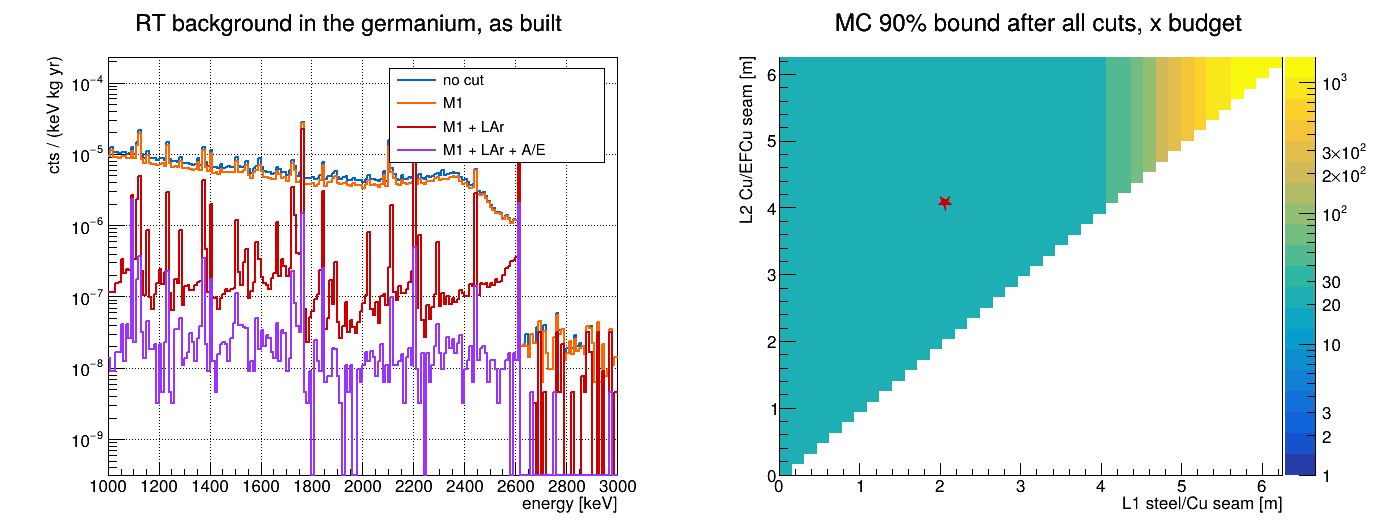
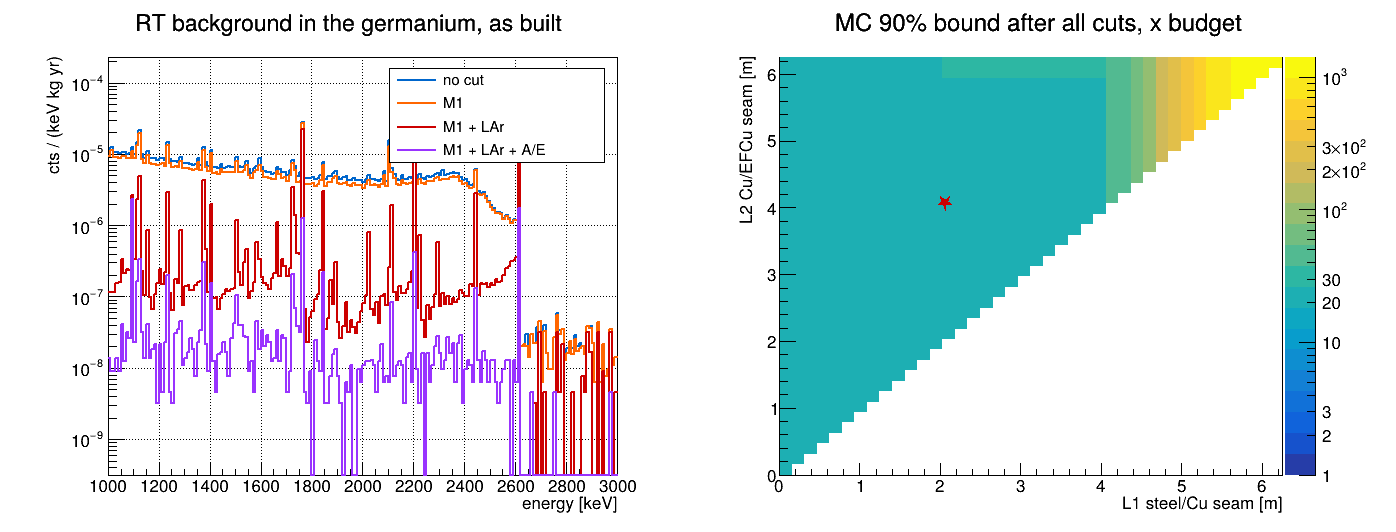
ana

diff --git a/ana/background.C b/ana/background.C
@@ -428,10 +428,13 @@ static std::vector<std::string> expand(const std::string &pat) // "output/tl208*
 
 // the A/E cut as LEGEND sets it: the classifier threshold that keeps cfg::depKeep of the DEP of Tl208, in M1 hits of every
 // Tl208 run (tube and holders), the continuum under the peak subtracted with the sidebands. one value for all detectors: they
-// share one template and one set of parameters
+// share one template and one set of parameters. then the cut on the other lines a 228Th calibration measures it on, and on
+// the window's continuum, against the HADES characterization of the L1000 template detector V00000A
 static void tuneAoE(const std::vector<std::string> &files)
 {
-  std::vector<float> peak, side; // A/E classifier of the M1 hits in the peak and in the sidebands
+  struct Line { const char *name; double e; std::vector<float> peak, side; double measured; }; // A/E classifier of M1 hits in the peak, the sidebands
+  Line line[3] = {{"DEP", cfg::depE, {}, {}, 0.90}, {"SEP", 2103.5, {}, {}, 0.04}, {"FEP", 2614.5, {}, {}, 0.06}};
+  std::vector<float> win; // ...and in the window
   for (auto &file : files)
   {
     auto f = TFile::Open(file.c_str());
@@ -440,34 +443,38 @@ static void tuneAoE(const std::vector<std::string> &files)
     std::unordered_map<Long64_t, short> nFired;
     scanTree(t, {"evtid", "energy"}, [&](const double *v) { if (v[1] > cfg::m1_keV) nFired[(Long64_t)v[0]]++; });
     scanTree(t, {"evtid", "energy", "aoe_class"}, [&](const double *v) {
-      double d = fabs(v[1] - cfg::depE);
-      if (v[1] <= cfg::m1_keV || nFired[(Long64_t)v[0]] != 1 || d > cfg::sideHi) return;
-      if (d < cfg::depHalf) peak.push_back(std::isnan(v[2]) ? -1e30 : v[2]); // an undefined A/E fails
-      else if (d > cfg::sideLo) side.push_back(std::isnan(v[2]) ? -1e30 : v[2]);
+      if (v[1] <= cfg::m1_keV || nFired[(Long64_t)v[0]] != 1) return;
+      float a = std::isnan(v[2]) ? -1e30 : v[2]; // an undefined A/E fails
+      if (cfg::inWindow(v[1])) win.push_back(a);
+      for (auto &l : line)
+      {
+        double d = fabs(v[1] - l.e);
+        if (d < cfg::depHalf) l.peak.push_back(a);
+        else if (d > cfg::sideLo && d < cfg::sideHi) l.side.push_back(a);
+      }
     });
     delete f;
   }
   const double k = 2 * cfg::depHalf / (2 * (cfg::sideHi - cfg::sideLo)); // sideband counts per peak width
-  const double net = peak.size() - k * side.size();
-  std::sort(peak.begin(), peak.end());
-  std::sort(side.begin(), side.end());
-  auto kept = [&](double thr) { // net DEP fraction above thr
-    double p = peak.end() - std::upper_bound(peak.begin(), peak.end(), (float)thr), q = side.end() - std::upper_bound(side.begin(), side.end(), (float)thr);
-    return (p - k * q) / net;
-  };
-  if (net < 30) { printf("[5] A/E cut: only %.0f DEP events net, kept at the production's %.2f
-
-", net, cfg::psd_low); return; }
+  auto above = [](std::vector<float> &x, double thr) { return (double)(x.end() - std::upper_bound(x.begin(), x.end(), (float)thr)); };
+  for (auto &l : line) { std::sort(l.peak.begin(), l.peak.end()); std::sort(l.side.begin(), l.side.end()); }
+  std::sort(win.begin(), win.end());
+  auto net = [&](Line &l) { return l.peak.size() - k * l.side.size(); };
+  auto kept = [&](Line &l, double thr) { return (above(l.peak, thr) - k * above(l.side, thr)) / net(l); }; // net fraction above thr
+  Line &dep = line[0];
+  if (net(dep) < 30) { printf("[5] A/E cut: only %.0f DEP events net, kept at the production's %.2f\n\n", net(dep), cfg::psd_low); return; }
   double thr = 0;
-  while (thr > -50 && kept(thr) < cfg::depKeep) thr -= 0.005;
+  while (thr > -50 && kept(dep, thr) < cfg::depKeep) thr -= 0.005;
   gPsdLow = thr;
-  printf("[5] A/E cut tuned on the Tl208 DEP (%.1f keV) in M1 hits: %zu in +-%.1f keV, %zu in the sidebands %.0f-%.0f keV off it, %.0f net
-",
-         cfg::depE, peak.size(), cfg::depHalf, side.size(), cfg::sideLo, cfg::sideHi, net);
-  printf("    classifier > %.2f keeps %.0f%% of it (+- %.0f%% statistics); the production's > %.2f kept %.0f%%
-
-", gPsdLow, 100 * kept(gPsdLow),
-         100 * sqrt(cfg::depKeep * (1 - cfg::depKeep) / net), cfg::psd_low, 100 * kept(cfg::psd_low));
+  printf("[5] A/E cut tuned on the Tl208 DEP (%.1f keV) in M1 hits: %zu in +-%.1f keV, %zu in the sidebands %.0f-%.0f keV off it, %.0f net\n",
+         cfg::depE, dep.peak.size(), cfg::depHalf, dep.side.size(), cfg::sideLo, cfg::sideHi, net(dep));
+  printf("    classifier > %.2f keeps %.0f%% of it (+- %.0f%% statistics); the production's > %.2f kept %.0f%%\n", gPsdLow, 100 * kept(dep, gPsdLow),
+         100 * sqrt(cfg::depKeep * (1 - cfg::depKeep) / net(dep)), cfg::psd_low, 100 * kept(dep, cfg::psd_low));
+  printf("    kept by it, net of the continuum:");
+  for (auto &l : line) printf("  %s %.1f %.2f (%.0f net)", l.name, l.e, kept(l, gPsdLow), net(l));
+  printf("  window %.2f (%zu)\n    measured on V00000A at HADES:     ", win.empty() ? 0.0 : above(win, gPsdLow) / win.size(), win.size());
+  for (auto &l : line) printf("  %s %.1f %.2f          ", l.name, l.e, l.measured);
+  printf("  window 0.27\n\n");
 }
 
 void background(const char *runs = "output/tl208*_hit.root=Tl208,output/bi214*_hit.root=Bi214",
@@ -663,27 +670,6 @@ void background(const char *runs = "output/tl208*_hit.root=Tl208,output/bi214*_h
     printf("    TUBE + HOLDERS\n");
     for (int c = 0; c < NC; c++) printf("      %-16s %s\n", cutName[c], total(gB[c] + hB[c], gV[c] + hV[c], gN[c] + hN[c], true).c_str());
     printf("    MC [yr]: the years of real decays the run stands for\n");
-    // the A/E cut on the lines a 228Th calibration measures it on, after M1: double escape (single site), single escape and full energy
-    // (multi site), and the window's continuum, against the HADES characterization of the L1000 template detector V00000A
-    const double peak[3] = {1592.5, 2103.5, 2614.5};
-    const char *peakName[4] = {"DEP 1592.5", "SEP 2103.5", "FEP 2614.5", "window"};
-    const double measured[4] = {0.90, 0.04, 0.06, 0.27};
-    for (auto &h : H)
-    {
-      if (h.iso.find("Tl") == std::string::npos) continue;
-      long nIn[4] = {0}, nOk[4] = {0};
-      for (auto &x : h.hits)
-      {
-        if (!x.m1) continue;
-        for (int k = 0; k < 4; k++)
-          if (k < 3 ? fabs(x.e - peak[k]) < 3 : cfg::inWindow(x.e)) { nIn[k]++; nOk[k] += x.psd; }
-      }
-      printf("    A/E cut on M1 hits of the holders' Tl208, kept (hits):");
-      for (int k = 0; k < 4; k++) printf("  %s %.2f (%ld)", peakName[k], nIn[k] ? (double)nOk[k] / nIn[k] : 0.0, nIn[k]);
-      printf("\n    the same measured on V00000A at HADES:                 ");
-      for (int k = 0; k < 4; k++) printf("  %s %.2f     ", peakName[k], measured[k]);
-      printf("\n");
-    }
   }
 
 //-------------------------------------------------------------------------------

diff --git a/README.md b/README.md
@@ -72,11 +72,11 @@ below. Its printout:
 | | |
 | --- | --- |
 | `[3]` | the tube, as read from the GDML: seams, endcap, wall thickness, and the densities of its materials |
-| `[5]` | the A/E cut, tuned: the classifier threshold that keeps 90% of the Tl-208 double-escape peak in M1 hits, the continuum under it subtracted, and what the production's −1.5 kept |
+| `[5]` | the A/E cut, tuned: the classifier threshold that keeps 90% of the Tl-208 double-escape peak in M1 hits, the continuum under it subtracted, and what the production's −1.5 kept; then what it keeps of the DEP, SEP, FEP (net of the continuum) and the window, against the HADES measurement |
 | `[6]` | per chain: where the decays landed (all must be in the wall), hits through the cuts, how hard the LAr veto cuts (with the optical map alone too), and per section the volume, mass, activity, simulated decays and their density |
 | `[7]` | per chain: hits by depth, and the decays each section needs to bound steel over it at 10% of the budget |
 | `[8]` | the BI as built, per chain and section, before and after each cut; a section with no hit gets its 90% limit |
-| `[9]` | the holders as built, per chain, before and after each cut, and the tube and holders together; the A/E cut on Tl-208's lines against the HADES measurement |
+| `[9]` | the holders as built, per chain, before and after each cut, and the tube and holders together |
 | `[10]` | for each `L2`, the deepest `L1` that passes after all cuts, with its masses and SS : Cu : EFCu split |
 
 | output (in `output/`) | made by | holds |
@@ -132,7 +132,7 @@ inverted-coaxial point contact (ICPC), and `V00000A`, whose drift times are used
 | photoelectrons | the summed optical map; amplitudes σ 0.3 PE; pulses within 16 ns merged; at most 100 PE per hit | `/all` of `output/merged_optmap_20260225_063750.lh5`; `tier/opt` |
 | M1 | exactly one detector above 25 keV | `tier/evt` `geds_energy_thr_kev` |
 | LAr veto | rejects a decay whose SiPMs see ≥ 4 PE in all | `tier/evt` `lar_veto_energy_sum_pe_thr` |
-| A/E cut | keeps a hit whose classifier is above the value that keeps 90% of the Tl-208 double-escape peak (DEP): __THR__ here (`[5]`); the production's −1.5 kept __KEPT__ | LEGEND's convention in data; the default from `pars/geds/psdcuts` |
+| A/E cut | keeps a hit whose classifier is above the value that keeps 90% of the Tl-208 double-escape peak (DEP): −1.19 here (`[5]`); the production's −1.5 kept 91% | LEGEND's convention in data; the default from `pars/geds/psdcuts` |
 
 - **The optical map** was made with legend-pygeom-l1000 v0.4.0 [[5]](#references). Its detectors and
   SiPMs sit where this geometry's do, but its tube is 68 mm narrower and 68 mm lower, so the outer
@@ -153,7 +153,7 @@ inverted-coaxial point contact (ICPC), and `V00000A`, whose drift times are used
   2.5 keV of it, the continuum under the peak subtracted with the sidebands 5-10 keV off it. One value
   serves all detectors, which here share one template and one set of parameters.
 - **A/E** uses the single-template model: the production's pulse-shape-library A/E needs a
-  library per detector that does not exist for L1000 yet. `[9]` checks the cut on the lines of
+  library per detector that does not exist for L1000 yet. `[5]` checks the cut on the lines of
   Tl-208 against the HADES measurement of `V00000A` [[5]](#references).
 
 ## Run
@@ -222,38 +222,38 @@ chain. While stages B and C arrive, the printout below comes from exactly these 
 
 | | no cut | M1 | M1 + LAr | M1 + LAr + A/E: all cuts |
 | --- | --- | --- | --- | --- |
-| tube | 4.72 × 10⁻⁶ (0.47) | 4.01 × 10⁻⁶ (0.40) | 1.40 ± 0.28 × 10⁻⁷ (0.014) | **1.22 ± 0.11 × 10⁻⁸ (0.0012)** |
-| holders | 1.04 × 10⁻⁶ | 5.73 × 10⁻⁷ | 2.70 ± 0.21 × 10⁻⁸ | 1.6 ± 0.5 × 10⁻⁹ |
-| tube + holders | 5.76 × 10⁻⁶ (0.58) | 4.59 × 10⁻⁶ (0.46) | 1.67 ± 0.28 × 10⁻⁷ (0.017) | **1.38 ± 0.12 × 10⁻⁸ (0.0014)** |
+| tube | 4.72 × 10⁻⁶ (0.47) | 4.01 × 10⁻⁶ (0.40) | 1.40 ± 0.28 × 10⁻⁷ (0.014) | **1.09 ± 0.10 × 10⁻⁸ (0.0011)** |
+| holders | 1.04 × 10⁻⁶ | 5.73 × 10⁻⁷ | 2.70 ± 0.21 × 10⁻⁸ | 1.2 ± 0.4 × 10⁻⁹ |
+| tube + holders | 5.76 × 10⁻⁶ (0.58) | 4.59 × 10⁻⁶ (0.46) | 1.67 ± 0.28 × 10⁻⁷ (0.017) | **1.21 ± 0.11 × 10⁻⁸ (0.0012)** |
 
 | | |
 | --- | --- |
-| behind the tube after all cuts | 125 window events, all from the EFCu: 94 Tl-208, 31 Bi-214 |
+| behind the tube after all cuts | 113 window events, all from the EFCu: 89 Tl-208, 24 Bi-214 |
 | the LAr veto, tube | keeps 1 in 41 M1 hits for Tl-208, 1 in 22 for Bi-214; read off the map alone (no light from the outer 68 mm), 1 in 14 and 1 in 10 |
-| the A/E cut, holders' Tl-208 | keeps DEP 0.73, SEP 0.08, FEP 0.06, the window 0.31; measured on `V00000A` at HADES 0.90, 0.04, 0.06, 0.27 |
+| the A/E cut, every Tl-208 run | classifier > −1.19 keeps DEP 0.90 (the tuning), SEP 0.03, FEP 0.05, the window 0.27, net of the continuum under the peaks; measured on `V00000A` at HADES 0.90, 0.04, 0.06, 0.27 |
 | SS : Cu : EFCu mass as built | 619 : 670 : 231 kg = 41 : 44 : 15 % (`[6]`, the GDML's sections) |
 | the same as a design | 669 : 672 : 175 kg = 44 : 44 : 12 % (`[10]`, by depth: the EFCu lid counts as steel) |
 | as built as a design, MC 90% bound | 25.3 × budget |
 | least EFCu, then most steel | none can be shown to pass yet |
 | decays the steel section needs | 4.5 × 10⁷ (Tl-208), 3.1 × 10⁸ (Bi-214) |
 
-The tube as built sits far below the goal before any cut (0.47 ×) and 800 × below it after all of
-them. Every cut matters: M1 removes 15%, the LAr veto 97% of what is left, and the A/E cut 90% of the
+The tube as built sits far below the goal before any cut (0.47 ×) and 900 × below it after all of
+them. Every cut matters: M1 removes 15%, the LAr veto 97% of what is left, and the A/E cut 92% of the
 rest. The LAr veto is the strongest and the least certain: 30% of the argon energy in the tube's events
 lies beyond the optical map, and reading it at the map's edge instead of seeing no light from it makes
-the veto 2-3 × stronger. After all cuts the tube's BI rests on 125 window events, ±9%; with the 3 M
-whole-tube decays alone it was 2.2 ± 1.1 × 10⁻⁸ on 4 events, 0.9 standard deviations high. Before the
-A/E cut, the OFHC's 2 window events dominate its ±20%.
+the veto 2-3 × stronger. After all cuts the tube's BI rests on 113 window events, ±9%. The tuned A/E
+cut matches the HADES measurement of the template detector within 0.01 on every line measured there
+(`[5]`). Before the A/E cut, the OFHC's 2 window events dominate its ±20%.
 
 No decay in the steel section (0-2.06 m) reached a detector: no hit came from shallower than 2.5 m.
 So every design with steel counts its steel slab at the 90% bound of a slab with no hit, mostly
 Bi-214's (2.5 × 10⁻⁴, 25 × the budget), until that section has the decays above ([NERSC](#nersc)).
 The steel is unresolved, not shown to be bad.
 
-The holders add 13% to the tube's BI after all cuts, almost all of it Bi-214: the LAr veto removes
+The holders add 11% to the tube's BI after all cuts, almost all of it Bi-214: the LAr veto removes
 their Tl-208 nearly entirely (10 of 4332 M1 window hits survive) but keeps 162 of Bi-214's 558, most
 likely its betas (up to 3.27 MeV) crossing from the holder straight into the germanium without
-touching argon; the A/E cut then keeps 9 of them.
+touching argon; the A/E cut then keeps 7 of them.
 
 ```
 [3] the tube in geom/output/l1000.gdml: z -1259.0 .. 4987.0 mm (6.246 m), 182 points, seams EFCu | 920.0 | OFHC | 2925.0 | SS
@@ -264,13 +264,18 @@ touching argon; the A/E cut then keeps 9 of them.
     densities [kg/m^3], the GDML's: steel 8000, Cu 8960, EFCu 8960, holders 8960
     tube: PASS
 
+[5] A/E cut tuned on the Tl208 DEP (1592.5 keV) in M1 hits: 1103 in +-2.5 keV, 1091 in the sidebands 5-10 keV off it, 558 net
+    classifier > -1.19 keeps 90% of it (+- 1% statistics); the production's > -1.50 kept 91%
+    kept by it, net of the continuum:  DEP 1592.5 0.90 (558 net)  SEP 2103.5 0.03 (3154 net)  FEP 2614.5 0.05 (39811 net)  window 0.27 (45593)
+    measured on V00000A at HADES:       DEP 1592.5 0.90            SEP 2103.5 0.04            FEP 2614.5 0.06            window 0.27
+
 window   : 1950-2350 keV minus 10 keV around 2039, 2103.5, 2118.5, 2204.1 keV (MAJORANA's BEW): 360 keV
-cuts     : M1 (exactly one detector above 25 keV), LAr veto (the SiPMs see < 4 photoelectrons), A/E classifier > -1.5. energies: the detector response
+cuts     : M1 (exactly one detector above 25 keV), LAr veto (the SiPMs see < 4 photoelectrons), A/E classifier > -1.19 (90% DEP, [5]). energies: the detector response
 activity : chain [uBq/kg] 232Th / 238U: steel 1000 / 2500, Cu 1.1 / 1.3, EFCu 0.37 / 0.19; Tl208 is 35.94% of 232Th, Bi214 100% of 238U
 
 === Tl208   (output/tl208_hit.root+output/tl208_2_hit.root+output/tl208_7001_hit.root+output/tl208_7002_hit.root+output/tl208_7003_hit.root, 33000000 decays)
 [6] decays: EFCu 92.5%, OFHC 3.6%, SS 3.8%; in the argon 0, outside the wall 0   (merged from 5 files)
-    hits: 1470631, M1 1255426, + LAr 30787, + A/E 4764; in the window: 48771, 41261, 468, 94
+    hits: 1470631, M1 1255426, + LAr 30787, + A/E 4344; in the window: 48771, 41261, 468, 89
     LAr veto keeps 1 in 41 M1 hits; read off the optical map alone, without the argon beyond its edge, 1 in 14
     section mat      V [m^3]   M [kg]     A [Bq]   MC dec.  MC per m^3  decays/yr per
     mother  EFCu     0.02583    231.4  3.077e-05  30540466  1182536983       3.18e-05
@@ -295,7 +300,7 @@ activity : chain [uBq/kg] 232Th / 238U: steel 1000 / 2500, Cu 1.1 / 1.3, EFCu 0.
 
 === Bi214   (output/bi214_hit.root+output/bi214_2_hit.root+output/bi214_8001_hit.root+output/bi214_8002_hit.root+output/bi214_8003_hit.root, 33000000 decays)
 [6] decays: EFCu 92.5%, OFHC 3.6%, SS 3.8%; in the argon 0, outside the wall 0   (merged from 5 files)
-    hits: 754204, M1 676678, + LAr 31024, + A/E 4791; in the window: 2310, 2147, 473, 31
+    hits: 754204, M1 676678, + LAr 31024, + A/E 4389; in the window: 2310, 2147, 473, 24
     LAr veto keeps 1 in 22 M1 hits; read off the optical map alone, without the argon beyond its edge, 1 in 10
     section mat      V [m^3]   M [kg]     A [Bq]   MC dec.  MC per m^3  decays/yr per
     mother  EFCu     0.02583    231.4  4.397e-05  30539893  1182514796       4.54e-05
@@ -322,32 +327,30 @@ activity : chain [uBq/kg] 232Th / 238U: steel 1000 / 2500, Cu 1.1 / 1.3, EFCu 0.
     chain  sect          win hits   no cut                 M1                     M1 + LAr               M1 + LAr + A/E        
     Tl208  steel          0/0/0/0   < 3.62e-05 (90%)       < 3.62e-05 (90%)       < 3.62e-05 (90%)       < 3.62e-05 (90%)      
            Cu           20/16/2/0   1.20e-07 +- 4.7e-08    9.97e-08 +- 4.3e-08    3.87e-08 +- 2.7e-08    < 4.45e-08 (90%)      
-           EFCu   48751/41245/466/94   4.31e-06 +- 2.0e-08    3.64e-06 +- 1.8e-08    4.12e-08 +- 1.9e-09    8.30e-09 +- 8.6e-10   
-           tube                     4.43e-06 +- 5.1e-08    3.74e-06 +- 4.7e-08    7.99e-08 +- 2.7e-08    8.30e-09 +- 8.6e-10   
+           EFCu   48751/41245/466/89   4.31e-06 +- 2.0e-08    3.64e-06 +- 1.8e-08    4.12e-08 +- 1.9e-09    7.86e-09 +- 8.3e-10   
+           tube                     4.43e-06 +- 5.1e-08    3.74e-06 +- 4.7e-08    7.99e-08 +- 2.7e-08    7.86e-09 +- 8.3e-10   
     Bi214  steel          0/0/0/0   < 2.52e-04 (90%)       < 2.52e-04 (90%)       < 2.52e-04 (90%)       < 2.52e-04 (90%)      
            Cu             0/0/0/0   < 1.46e-07 (90%)       < 1.46e-07 (90%)       < 1.46e-07 (90%)       < 1.46e-07 (90%)      
-           EFCu   2310/2147/473/31   2.92e-07 +- 6.1e-09    2.71e-07 +- 5.8e-09    5.97e-08 +- 2.7e-09    3.91e-09 +- 7.0e-10   
-           tube                     2.92e-07 +- 6.1e-09    2.71e-07 +- 5.8e-09    5.97e-08 +- 2.7e-09    3.91e-09 +- 7.0e-10   
+           EFCu   2310/2147/473/24   2.92e-07 +- 6.1e-09    2.71e-07 +- 5.8e-09    5.97e-08 +- 2.7e-09    3.03e-09 +- 6.2e-10   
+           tube                     2.92e-07 +- 6.1e-09    2.71e-07 +- 5.8e-09    5.97e-08 +- 2.7e-09    3.03e-09 +- 6.2e-10   
     ALL CHAINS
       no cut           4.72e-06 +- 5.2e-08 (0.47 x goal)
       M1               4.01e-06 +- 4.7e-08 (0.4 x goal)
       M1 + LAr         1.40e-07 +- 2.8e-08 (0.014 x goal)
-      M1 + LAr + A/E   1.22e-08 +- 1.1e-09 (0.0012 x goal)
+      M1 + LAr + A/E   1.09e-08 +- 1.0e-09 (0.0011 x goal)
     win hits: per cut level, as in the columns. sections with no window hit are left out of the totals
 
 [9] the EFCu detector holders as built: 1008 weldments, 213.7 cm^3, 1.92 kg of EFCu at 0.37 / 0.19 uBq/kg 232Th / 238U
     chain     decays     A [Bq]   MC [yr]     hits        win hits   no cut                 M1                     M1 + LAr               M1 + LAr + A/E        
     Tl208     200000  2.547e-07     24886   189614  8391/4332/10/1   9.37e-07 +- 1.0e-08    4.84e-07 +- 7.3e-09    1.12e-09 +- 3.5e-10    1.12e-10 +- 1.1e-10   
-    Bi214     200000  3.639e-07     17418   111835   636/558/162/9   1.01e-07 +- 4.0e-09    8.90e-08 +- 3.8e-09    2.58e-08 +- 2.0e-09    1.44e-09 +- 4.8e-10   
-             holders                                                 1.04e-06 +- 1.1e-08    5.73e-07 +- 8.3e-09    2.70e-08 +- 2.1e-09    1.55e-09 +- 4.9e-10   
+    Bi214     200000  3.639e-07     17418   111835   636/558/162/7   1.01e-07 +- 4.0e-09    8.90e-08 +- 3.8e-09    2.58e-08 +- 2.0e-09    1.12e-09 +- 4.2e-10   
+             holders                                                 1.04e-06 +- 1.1e-08    5.73e-07 +- 8.3e-09    2.70e-08 +- 2.1e-09    1.23e-09 +- 4.4e-10   
     TUBE + HOLDERS
       no cut           5.76e-06 +- 5.3e-08 (0.58 x goal)
       M1               4.59e-06 +- 4.8e-08 (0.46 x goal)
       M1 + LAr         1.67e-07 +- 2.8e-08 (0.017 x goal)
-      M1 + LAr + A/E   1.38e-08 +- 1.2e-09 (0.0014 x goal)
+      M1 + LAr + A/E   1.21e-08 +- 1.1e-09 (0.0012 x goal)
     MC [yr]: the years of real decays the run stands for
-    A/E cut on M1 hits of the holders' Tl208, kept (hits):  DEP 1592.5 0.73 (108)  SEP 2103.5 0.08 (412)  FEP 2614.5 0.06 (4396)  window 0.31 (4332)
-    the same measured on V00000A at HADES:                   DEP 1592.5 0.90       SEP 2103.5 0.04       FEP 2614.5 0.06       window 0.27     
 
 [10] designs of the tube: steel to L1, Cu to L2, EFCu below. MC alone, after all cuts; passes if its 90% bound <= the budget 1e-05
     L2 [m]  EFCu [kg]  steel to steel [kg]   Cu [kg]   SS:Cu:EFCu mass          BI   90% bound  x budget
@@ -356,7 +359,7 @@ activity : chain [uBq/kg] 232Th / 238U: steel 1000 / 2500, Cu 1.1 / 1.3, EFCu 0.
     3.50          363         -   no steel can be shown to pass yet
     3.75          278         -   no steel can be shown to pass yet
     4.00          194         -   no steel can be shown to pass yet
-    4.07          175    2.06 m        669       672    44 : 44 : 12 %    1.22e-08    2.53e-04     25.30   <- as built
+    4.07          175    2.06 m        669       672    44 : 44 : 12 %    1.09e-08    2.53e-04     25.29   <- as built
     4.25          158         -   no steel can be shown to pass yet
     4.50          137         -   no steel can be shown to pass yet
     4.75          116         -   no steel can be shown to pass yet
